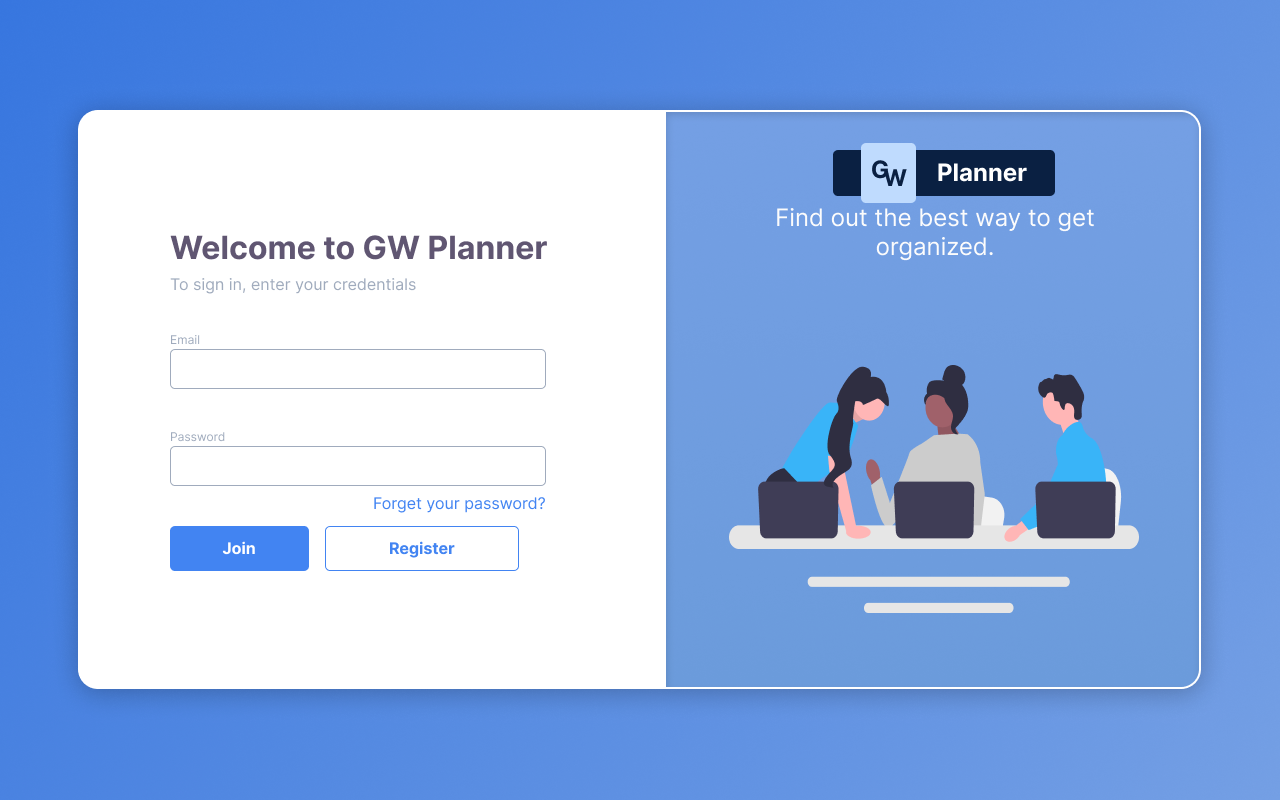
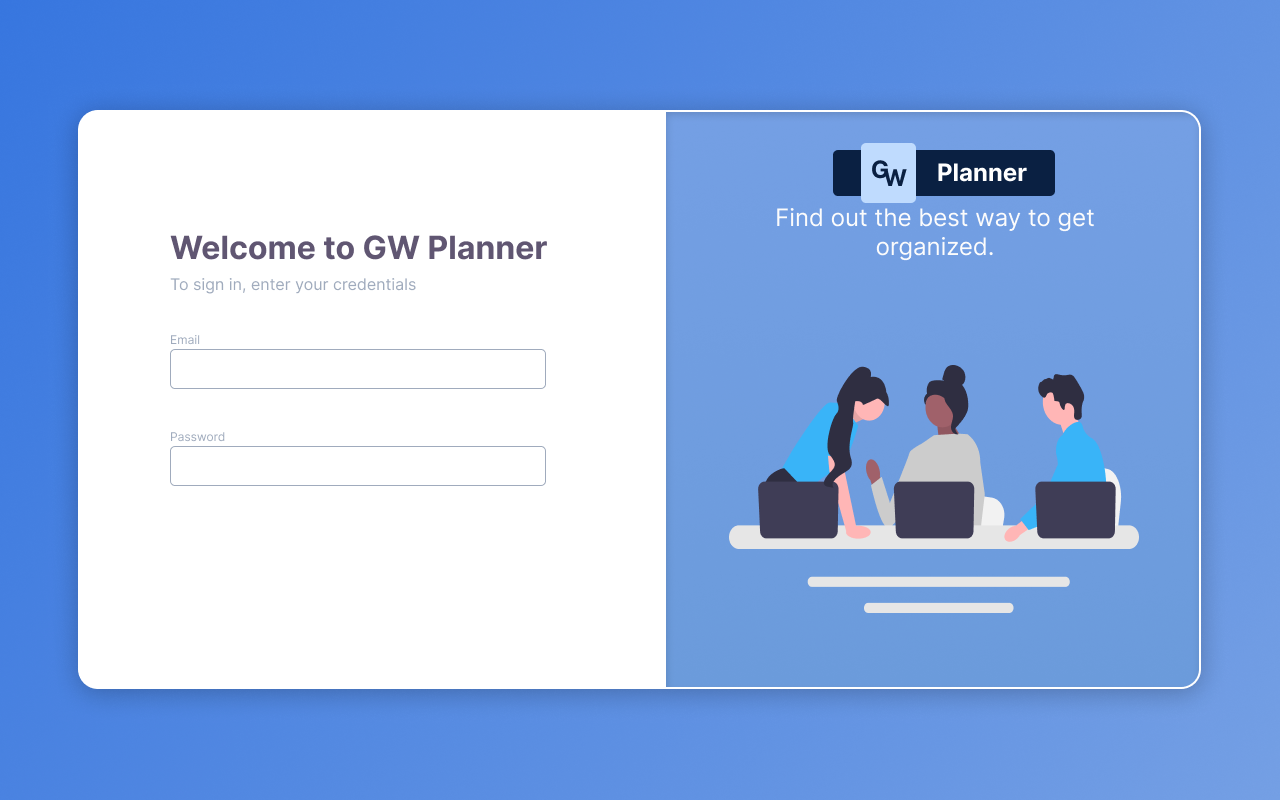
Alterado botões na tela de login. Atualizado formato de exportação de imagens

Changed region(s): [[0.125, 0.6562, 0.25, 0.7188], [0.2812, 0.625, 0.4375, 0.7188]]

diff --git a/main.py b/main.py
@@ -104,15 +104,15 @@ def signinScreen(title):
   input_password = Entry(screen, highlightthickness=0, textvariable=hidePassword, show="*", bd=0, font=('Inter', 8), justify=LEFT, foreground='#605672')
   input_password.place(width=370, height=35, x=172, y=450)
 
-  button_signin = Button(screen, highlightthickness=0, bd=0, background='#4284F2', image=signinButton, command=login)
-  button_signin.place(width=129, height=43, x=175, y=527)
+  button_signin = Button(screen, highlightthickness=0, bd=0, background='white', image=signinButton, command=login)
+  button_signin.place(width=230, height=45, x=170, y=527)
 
   button_signup = Button(screen, highlightthickness=0, bd=0, background='white', image=signupButton, command=lambda:
   [
       screen.destroy(),
       signupScreen('Microsfot - Cadastro')
   ])
-  button_signup.place(width=184, height=41, x=330, y=528)
+  button_signup.place(width=132, height=45, x=415, y=526)
 
   button_forget = Button(screen, highlightthickness=0, bd=0, background='white', image=forgetButton, command=lambda:
   [
